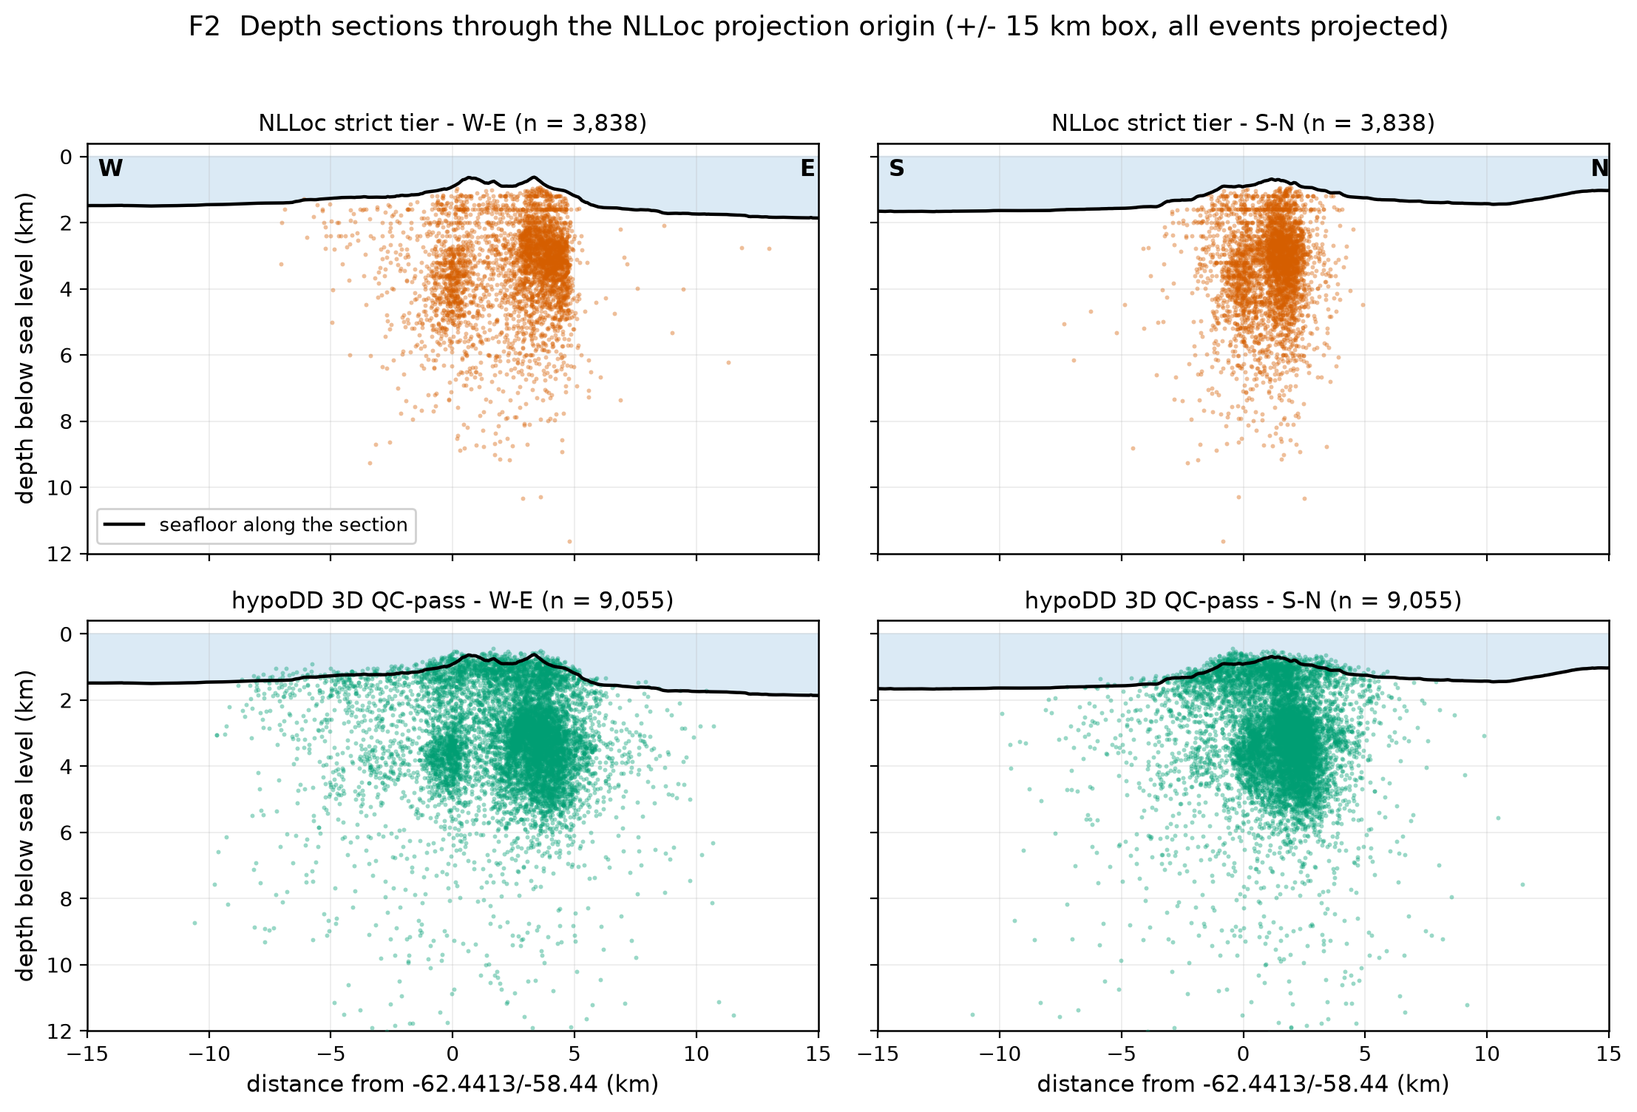
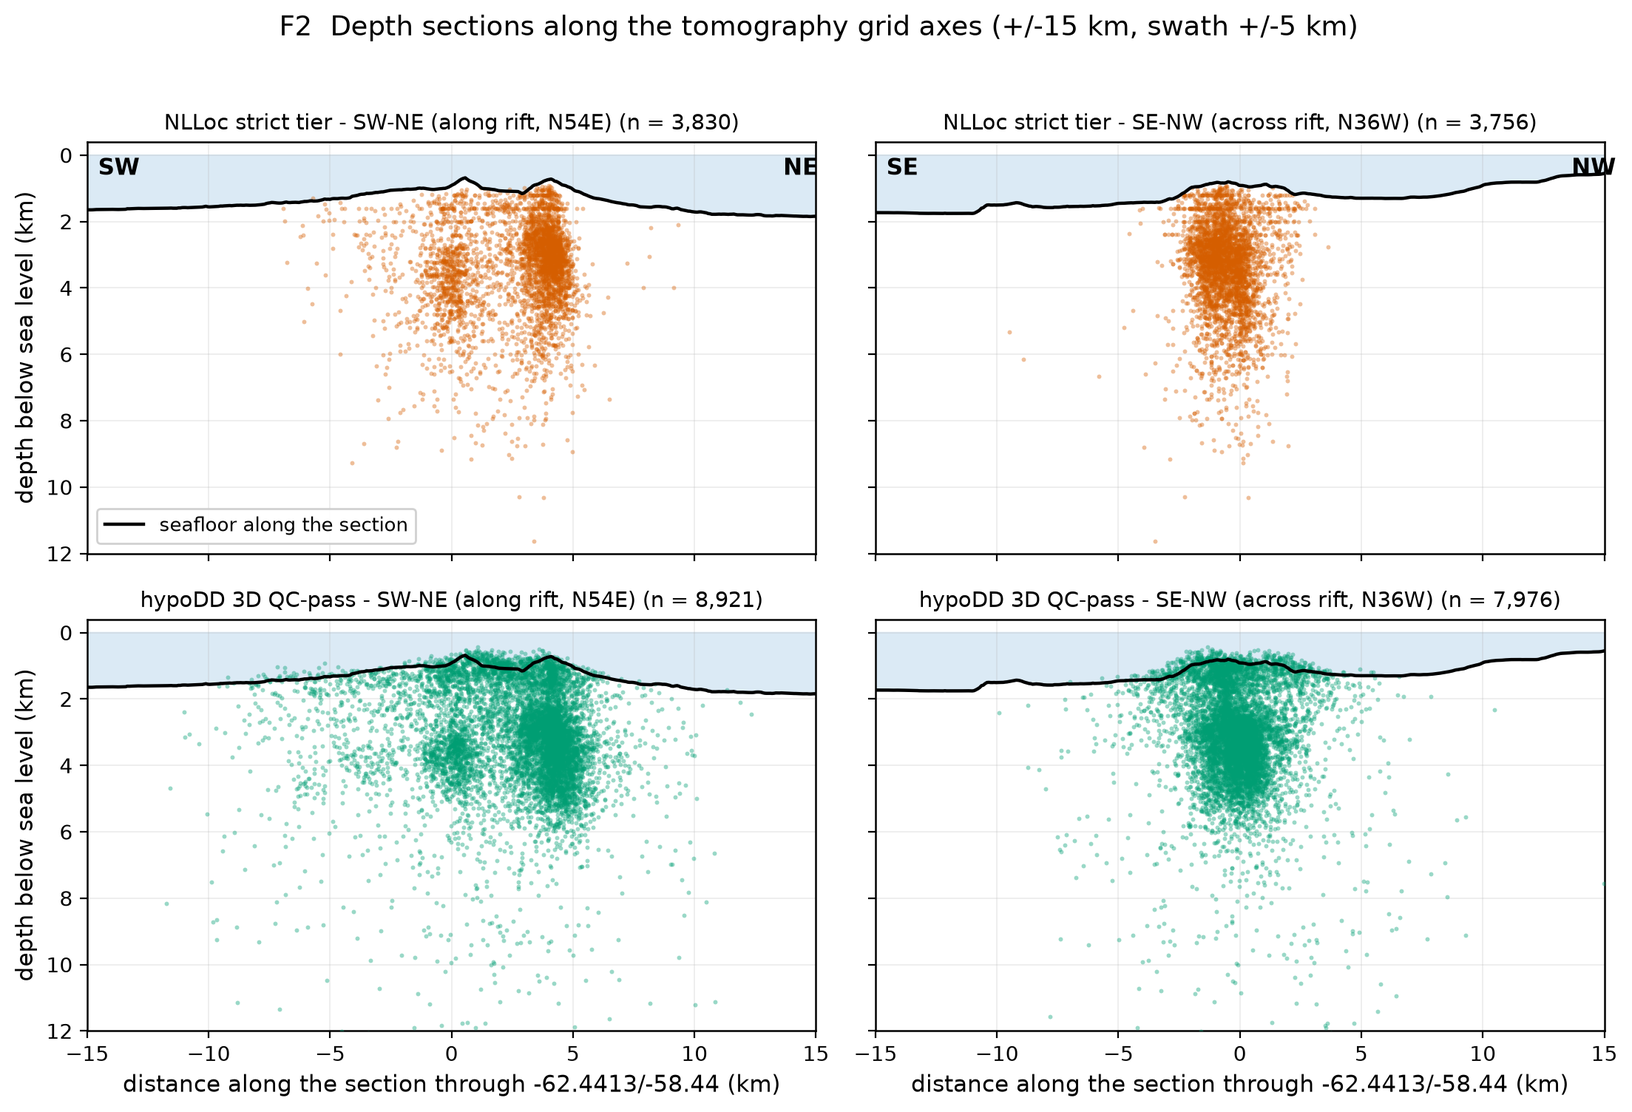
Cross sections re-oriented along the tomography grid axes (SW-NE along rift N54E, SE-NW across N36W) with narrow swaths

diff --git a/scripts/69_final_figures.py b/scripts/69_final_figures.py
@@ -336,76 +336,73 @@ def fig1():
 def fig2():
     strict = load_tier("strict")
     hdd = load_hypodd()
-    HALF = 15.0
+    HALF, SWATH = 15.0, 5.0
+    # Grid axes of the tomography (TRANS SIMPLE, RotCW 36): +x = N54E (along the rift), +y = N36W (across).
+    AZ = {"ne": 54.0, "nw": -36.0}
+    def unit(az): a = np.radians(az); return np.sin(a), np.cos(a)       # (east, north)
+    def rot(e, n, axis):
+        ue, un = unit(AZ[axis]); ve, vn = unit(AZ["nw" if axis == "ne" else "ne"])
+        return e * ue + n * un, e * ve + n * vn                          # along, across
 
     def prof_bathy(axis):
-        """Seafloor along the W-E (axis='we') or S-N (axis='sn') line through the centre."""
-        s = np.linspace(-HALF, HALF, 400)
-        if axis == "we":
-            lat = np.full_like(s, CLAT)
-            lon = CLON + s / kmperdeglon(CLAT)
-        else:
-            lat = CLAT + s / KM_PER_DEG_LAT
-            lon = np.full_like(s, CLON)
+        """Seafloor along the section line through the centre (grid-axis orientation)."""
+        s = np.linspace(-HALF, HALF, 400); ue, un = unit(AZ[axis])
+        lat = CLAT + s * un / KM_PER_DEG_LAT
+        lon = CLON + s * ue / kmperdeglon(CLAT)
         pad = 0.03
         _, _, _, pf = bathymetry(lat.min() - pad, lat.max() + pad,
                                  lon.min() - pad, lon.max() + pad, n=400)
         return s, pf(lat, lon)
 
+    NAME = {"ne": "SW-NE (along rift, N54E)", "nw": "SE-NW (across rift, N36W)"}
     panels = [
-        ("we", strict.lat.values, strict.lon.values, strict.depth_km.values,
-         "NLLoc strict tier", TIER_COLOR["strict"]),
-        ("sn", strict.lat.values, strict.lon.values, strict.depth_km.values,
-         "NLLoc strict tier", TIER_COLOR["strict"]),
-        ("we", hdd.lat.values, hdd.lon.values, hdd.depth_bsl_km.values,
-         "hypoDD 3D QC-pass", TIER_COLOR["hypodd"]),
-        ("sn", hdd.lat.values, hdd.lon.values, hdd.depth_bsl_km.values,
-         "hypoDD 3D QC-pass", TIER_COLOR["hypodd"]),
+        ("ne", strict.lat.values, strict.lon.values, strict.depth_km.values, "NLLoc strict tier", TIER_COLOR["strict"]),
+        ("nw", strict.lat.values, strict.lon.values, strict.depth_km.values, "NLLoc strict tier", TIER_COLOR["strict"]),
+        ("ne", hdd.lat.values, hdd.lon.values, hdd.depth_bsl_km.values, "hypoDD 3D QC-pass", TIER_COLOR["hypodd"]),
+        ("nw", hdd.lat.values, hdd.lon.values, hdd.depth_bsl_km.values, "hypoDD 3D QC-pass", TIER_COLOR["hypodd"]),
     ]
     fig, axes = plt.subplots(2, 2, figsize=(11.2, 7.6), sharex=True, sharey=True)
     counts = {}
     for ax, (axis, lat, lon, dep, lab, col) in zip(axes.ravel(), panels):
         e, n = ll_to_km(lat, lon)
-        inbox = (np.abs(e) <= HALF) & (np.abs(n) <= HALF) & np.isfinite(dep)
-        s = e[inbox] if axis == "we" else n[inbox]
-        ax.scatter(s, dep[inbox], s=4.5, c=col, alpha=0.40, lw=0, zorder=3)
+        along, across = rot(e, n, axis)
+        inbox = (np.abs(along) <= HALF) & (np.abs(across) <= SWATH) & np.isfinite(dep)
+        ax.scatter(along[inbox], dep[inbox], s=4.5, c=col, alpha=0.40, lw=0, zorder=3)
         sb, wb = prof_bathy(axis)
         ax.plot(sb, wb, color=C["black"], lw=1.6, zorder=4)
         ax.fill_between(sb, 0, wb, color="#dbeaf5", zorder=0)
-        ax.set_title(f"{lab} - {'W-E' if axis == 'we' else 'S-N'} "
-                     f"(n = {int(inbox.sum()):,})", fontsize=11)
+        ax.set_title(f"{lab} - {NAME[axis]} (n = {int(inbox.sum()):,})", fontsize=10.5)
         counts[(lab, axis)] = int(inbox.sum())
     for ax in axes.ravel():
         ax.set_xlim(-HALF, HALF)
         ax.set_ylim(12, -0.4)
     for ax in axes[1]:
-        ax.set_xlabel("distance from -62.4413/-58.44 (km)")
+        ax.set_xlabel("distance along the section through -62.4413/-58.44 (km)")
     for ax in axes[:, 0]:
         ax.set_ylabel("depth below sea level (km)")
-    axes[0, 0].annotate("W", (0.015, 0.92), xycoords="axes fraction", fontweight="bold")
-    axes[0, 0].annotate("E", (0.975, 0.92), xycoords="axes fraction", fontweight="bold")
-    axes[0, 1].annotate("S", (0.015, 0.92), xycoords="axes fraction", fontweight="bold")
-    axes[0, 1].annotate("N", (0.975, 0.92), xycoords="axes fraction", fontweight="bold")
+    axes[0, 0].annotate("SW", (0.015, 0.92), xycoords="axes fraction", fontweight="bold")
+    axes[0, 0].annotate("NE", (0.955, 0.92), xycoords="axes fraction", fontweight="bold")
+    axes[0, 1].annotate("SE", (0.015, 0.92), xycoords="axes fraction", fontweight="bold")
+    axes[0, 1].annotate("NW", (0.955, 0.92), xycoords="axes fraction", fontweight="bold")
     axes[0, 0].plot([], [], color=C["black"], lw=1.6, label="seafloor along the section")
     axes[0, 0].legend(loc="lower left", framealpha=0.9)
-    fig.suptitle("F2  Depth sections through the NLLoc projection origin "
-                 "(+/- 15 km box, all events projected)", y=0.985)
+    fig.suptitle(f"F2  Depth sections along the tomography grid axes (+/-{HALF:g} km, swath +/-{SWATH:g} km)", y=0.985)
     fig.tight_layout(rect=(0, 0, 1, 0.965))
 
     CAPTIONS["F2"] = (
-        f"**F2 - depth sections.** Hypocentres inside a +/-15 km box centred on the NLLoc "
-        f"projection origin (-62.4413, -58.44), projected onto a W-E (left) and a S-N "
-        f"(right) vertical plane; every event in the box is shown in both panels. Top row: "
-        f"NLLoc strict tier ({counts[('NLLoc strict tier', 'we')]:,} of "
+        f"**F2 - depth sections.** Hypocentres within +/-15 km along and +/-5 km across two vertical sections "
+        f"through the NLLoc projection origin (-62.4413, -58.44), oriented along the tomography "
+        f"grid axes: SW-NE (N54E, along the Bransfield rift; left) and SE-NW (N36W, across it; right). Top row: "
+        f"NLLoc strict tier ({counts[('NLLoc strict tier', 'ne')]:,} of "
         f"{len(strict):,} events in the box). Bottom row: the hypoDD 3D double-difference "
         f"relocation of the standard tier, QC-pass only "
-        f"({counts[('hypoDD 3D QC-pass', 'we')]:,} of {len(hdd):,}), plotted on its "
+        f"({counts[('hypoDD 3D QC-pass', 'ne')]:,} of {len(hdd):,}), plotted on its "
         f"depth_bsl_km column so both rows share the sea-level datum. The black line is "
         f"the seafloor sampled along the section line from the same bathymetry as F1, and "
         f"the pale band above it is the water column. All four panels share identical "
         f"axes. Events plotted above the black line are not in the water: the profile is "
         f"the seafloor ON the section line, while the points are projected onto it from up "
-        f"to 15 km off-line, where the seafloor is deeper (510 of the {len(hdd):,} hypoDD "
+        f"to 5 km off-line, where the seafloor is deeper (510 of the {len(hdd):,} hypoDD "
         f"events, 5.6%, do sit up to 0.20 km above their own local seafloor, which is the "
         f"half-grid-cell tolerance the QC allows). Seismicity is concentrated in the upper "
         f"~5 km beneath the edifice; the "

diff --git a/scripts/71_report_figures_2.py b/scripts/71_report_figures_2.py
@@ -1268,8 +1268,10 @@ def g14():
         ax.annotate(r.station, (r.longitude, r.latitude), textcoords="offset points",
                     xytext=(6, 5), fontsize=7, zorder=7,
                     bbox=dict(fc="white", ec="none", alpha=0.65, pad=0.6))
-    ax.axhline(CLAT, color="k", lw=1.2, ls="--", zorder=4)
-    ax.axvline(CLON, color="k", lw=1.2, ls=":", zorder=4)
+    # section traces along the tomography grid axes: +x = N54E (along rift), +y = N36W (across)
+    for az, ls in ((54.0, "--"), (-36.0, ":")):
+        ue, un = np.sin(np.radians(az)), np.cos(np.radians(az)); ss = np.array([-HALF, HALF])
+        ax.plot(CLON + ss * ue / kmperdeglon(CLAT), CLAT + ss * un / KM_PER_DEG_LAT, color="k", lw=1.2, ls=ls, zorder=4)
     ax.set_xlim(lon0, lon1)
     ax.set_ylim(lat0, lat1)
     ax.set_aspect(1.0 / np.cos(np.radians(CLAT)))
@@ -1284,42 +1286,41 @@ def g14():
     ax.legend(handles=[
         Line2D([], [], marker="^", ls="", ms=10, color="white", markeredgecolor="k",
                label="ZX OBS"),
-        Line2D([], [], color="k", lw=1.2, ls="--", label="section b-b' (W-E)"),
-        Line2D([], [], color="k", lw=1.2, ls=":", label="section c-c' (S-N)"),
+        Line2D([], [], color="k", lw=1.2, ls="--", label="section b-b' (SW-NE, along rift, N54E)"),
+        Line2D([], [], color="k", lw=1.2, ls=":", label="section c-c' (SE-NW, across rift, N36W)"),
         Line2D([], [], color=C["grey"], lw=0.8, label="bathymetry, 100 m"),
     ], loc="upper left", framealpha=0.93, fontsize=8.5)
 
-    # (b) W-E and (c) S-N sections
-    for pi, tag in enumerate(("b", "c")):
+    # (b) SW-NE (along rift) and (c) SE-NW (across rift) sections, grid-axis orientation
+    SWATH = 3.0
+    def unit(az): a = np.radians(az); return np.sin(a), np.cos(a)
+    for pi, (tag, az, az_x, name, ends) in enumerate((("b", 54.0, -36.0, "SW-NE (along rift, N54E)", ("SW", "NE")),
+                                                       ("c", -36.0, 54.0, "SE-NW (across rift, N36W)", ("SE", "NW")))):
         axs = fig.add_subplot(gs[1, pi])
-        if tag == "b":
-            along, across, name = e, n_, "W-E"
-            prof_lat = np.full(400, CLAT)
-            prof_lon = CLON + np.linspace(-HALF, HALF, 400) / kmperdeglon(CLAT)
-            s_along, s_across = obs.e.values, obs.n.values
-        else:
-            along, across, name = n_, e, "S-N"
-            prof_lat = CLAT + np.linspace(-HALF, HALF, 400) / KM_PER_DEG_LAT
-            prof_lon = np.full(400, CLON)
-            s_along, s_across = obs.n.values, obs.e.values
-        m = np.abs(across) <= HALF
+        ue, un = unit(az); xe, xn = unit(az_x)
+        along, across = e * ue + n_ * un, e * xe + n_ * xn
+        s_along, s_across = obs.e.values * ue + obs.n.values * un, obs.e.values * xe + obs.n.values * xn
+        dline = np.linspace(-HALF, HALF, 400)
+        prof_lat = CLAT + dline * un / KM_PER_DEG_LAT
+        prof_lon = CLON + dline * ue / kmperdeglon(CLAT)
+        m = (np.abs(across) <= SWATH) & (np.abs(along) <= HALF)
         axs.scatter(along[m], z[m], s=3.6, c=t_days[m], cmap=cmap, vmin=vmin, vmax=vmax,
                     lw=0, zorder=3)
         prof = pf(prof_lat, prof_lon)
-        dline = np.linspace(-HALF, HALF, 400)
         axs.fill_between(dline, 0, prof, facecolor="#dceaf6", zorder=1)
         axs.plot(dline, prof, color=C["black"], lw=1.8, zorder=5, label="seafloor")
-        ms = np.abs(s_across) <= HALF
+        ms = (np.abs(s_across) <= SWATH) & (np.abs(s_along) <= HALF)
         axs.scatter(s_along[ms], obs.water_km.values[ms], marker="^", s=95, c="white",
                     edgecolor="k", lw=0.9, zorder=6, clip_on=False,
-                    label=f"ZX OBS ({int(ms.sum())})")
+                    label=f"ZX OBS within the swath ({int(ms.sum())})")
         axs.axvline(0, color=C["grey"], lw=1.0, ls="--", zorder=2)
         axs.set_xlim(-HALF, HALF)
         axs.set_ylim(ZMAX, 0)
-        axs.set_xlabel(f"distance along {name} through {CLAT}/{CLON} (km)")
+        axs.set_xlabel(f"distance along the section through {CLAT}/{CLON} (km)")
         axs.set_ylabel("depth below sea level (km)")
-        axs.set_title(f"({tag})  {name} section, |offset| <= {HALF:g} km "
-                      f"({int(m.sum()):,} events)", loc="left")
+        axs.set_title(f"({tag})  {name}, swath +/-{SWATH:g} km ({int(m.sum()):,} events)", loc="left", fontsize=10)
+        axs.annotate(ends[0], (0.015, 0.92), xycoords="axes fraction", fontweight="bold")
+        axs.annotate(ends[1], (0.94, 0.92), xycoords="axes fraction", fontweight="bold")
         axs.legend(loc="lower right", framealpha=0.93, fontsize=8.5)
 
     from scipy.spatial import cKDTree
@@ -1335,8 +1336,9 @@ def g14():
         f"{int(keep.sum()):,} events within +/-{HALF:g} km of the NLLoc projection origin "
         f"{CLAT}/{CLON} (grey dots: the {int((~keep).sum()):,} outside the frame), over "
         f"the 30 m Orca bathymetry contoured every 100 m, with the ZX OBS and the traces "
-        f"of the two sections. (b) W-E and (c) S-N sections through the same origin, each "
-        f"taking events within +/-{HALF:g} km of the section line, with the seafloor "
+        f"of the two sections, oriented along the tomography grid axes. (b) SW-NE (N54E, along the "
+        f"Bransfield rift) and (c) SE-NW (N36W, across it) sections through the same origin, each "
+        f"taking events within +/-3 km of the section line, with the seafloor "
         f"profile sampled from the same bathymetry and the OBS at their true depths. The "
         f"median nearest-neighbour 3D separation of this catalogue is {nnm:.3f} km, the "
         f"scale at which the lineations and sub-clusters in these panels are resolved. "

diff --git a/notes/figures/final/captions_2.md b/notes/figures/final/captions_2.md
@@ -14,6 +14,6 @@ Generated by `scripts/71_report_figures_2.py` (companion to `scripts/69_final_fi
 
 **Figure 9 - processing accounting.** Waterfall of the full chain, every number counted by `scripts/68_catalogue_accounting.py` from the obs blocks, the per-event `.hyp` files and the catalogue itself, and reproduced in notes/31_final_catalogue_v6.md sec. 3. (a) 98,631 associated events lose 18,848 to the airgun exclusion window (2019-01-21 to 2019-02-05), leaving 79,783 offered to NLLoc; 50 obs events produce no solution and 10 `.hyp` files carry no parsable GEOGRAPHIC line, giving the 79,723 rows of `catalogs/nlloc_year_v6.csv`, of which 220 are REJECTED - so 79,503 LOCATED solutions, 99.6% of the events offered (the last three cuts remove 280 events in total and are too small to render at this scale). (b) The three delivered tiers cut from those solutions: loose 15,184, standard 12,194 and strict 3,864 events (19.1%, 15.3% and 4.9% of LOCATED). The binding constraints are azimuthal gap and grid-face pinning, not pick count or rms. (c) The pick side of the same accounting: of 409,677 S picks, 20,140 (4.9% of all S, 2.5% of all picks) were removed by the S-before-P guard in 13,979 events (17.5%), deleting no events; the 409,090 P picks are untouched.
 
-**Figure 14 - relative geometry.** The cross-correlation-refined relative catalogue `catalogs/hypodd_year_v6_3d_xc_qc.csv` (8,005 QC-pass events) at full resolution, every event coloured by origin time (built from the yr/mo/dy/hr/mi/sc columns) over 398 days from 2019-01-12 to 2020-02-14. (a) Map of the 7,944 events within +/-8 km of the NLLoc projection origin -62.4413/-58.44 (grey dots: the 61 outside the frame), over the 30 m Orca bathymetry contoured every 100 m, with the ZX OBS and the traces of the two sections. (b) W-E and (c) S-N sections through the same origin, each taking events within +/-8 km of the section line, with the seafloor profile sampled from the same bathymetry and the OBS at their true depths. The median nearest-neighbour 3D separation of this catalogue is 0.115 km, the scale at which the lineations and sub-clusters in these panels are resolved. A few events plot above the seafloor line in (b) and (c): quality control removes events above their OWN local seafloor, while the line drawn is the profile along the section, so an event projected in from off-line can sit above it. Depths are below sea level and inherit the absolute frame, so the panels show relative geometry, not absolute depth accuracy.
+**Figure 14 - relative geometry.** The cross-correlation-refined relative catalogue `catalogs/hypodd_year_v6_3d_xc_qc.csv` (8,005 QC-pass events) at full resolution, every event coloured by origin time (built from the yr/mo/dy/hr/mi/sc columns) over 398 days from 2019-01-12 to 2020-02-14. (a) Map of the 7,944 events within +/-8 km of the NLLoc projection origin -62.4413/-58.44 (grey dots: the 61 outside the frame), over the 30 m Orca bathymetry contoured every 100 m, with the ZX OBS and the traces of the two sections, oriented along the tomography grid axes. (b) SW-NE (N54E, along the Bransfield rift) and (c) SE-NW (N36W, across it) sections through the same origin, each taking events within +/-3 km of the section line, with the seafloor profile sampled from the same bathymetry and the OBS at their true depths. The median nearest-neighbour 3D separation of this catalogue is 0.115 km, the scale at which the lineations and sub-clusters in these panels are resolved. A few events plot above the seafloor line in (b) and (c): quality control removes events above their OWN local seafloor, while the line drawn is the profile along the section, so an event projected in from off-line can sit above it. Depths are below sea level and inherit the absolute frame, so the panels show relative geometry, not absolute depth accuracy.
 
 **Figure 15 - validation.** (a) Per-station distribution of the analyst's own S-P measurements (17,315 ZX event/station pairs with both a P and an S hand pick, 15 stations with n >= 20; box p25-p75, median in blue, whiskers p5-p95) against that station's S-P term from `nlloc/delays/v6_it1B.delays` (vermillion diamond, S delay minus P delay), stations ordered by the term; the axis is clipped at 3.6 s, above which a handful of mis-paired analyst measurements run to 119 s. The terms played no part in the analyst picks, so this is an out-of-sample test: only 83 of 17,315 pairs (0.5%) measure an S-P smaller than their own station's term (the count and percentage above each diamond, matching the 83 of 17,347 of notes/31 sec. 1), i.e. the terms never exceed what the analyst actually measured. (b) Automatic minus analyst S-P on the 13,114 pairs where the production pool matched both phases (`res_raw` of `catalogs/manual_pick_recall_year_newpool.csv`, S residual minus P residual), median +20 ms with a MAD of 50 ms; the inset gives the per-station median. (c) Recall of the analyst picks per station in the trusted window (from 2019-10-01, 11,308 picks), for the raw pick pool (solid, 90.9% overall) and for the picks that survive into the associated catalogue (hatched, 59.6%) - the gap is what association and the S-before-P guard remove, not what the picker missed.

diff --git a/notes/figures/final/captions.md b/notes/figures/final/captions.md
@@ -4,7 +4,7 @@ Generated by `scripts/69_final_figures.py`. Numbers are recomputed from the cata
 
 **F1 - epicentre map.** Epicentres of the NLLoc catalogue over the Orca volcanic edifice. Grey dots: standard tier (gap < 180 deg, rms < 0.5 s, Nphs >= 6, depth_bsf > -0.2 km; 12,194 events, 11,834 inside the map frame). Coloured dots: strict tier (3,864 events, 3,838 in frame), shaded by hypocentral depth below sea level (0-10 km). Triangles are stations - filled vermillion for ZX ocean-bottom seismometers (true water depths 0.785-1.943 km), open for land stations. Thin grey lines are bathymetry contours every 250 m, from the 30 m Orca multibeam grid inside its footprint and GEBCO_2023 outside it (the same surface and precedence used to un-shear the velocity grid, scripts/41). The star marks the Orca caldera (the 30 m grid's summit is -615 m at -62.446/-58.397). Scale bar 5 km; the inset shows the full station network with the map frame outlined. Seismicity concentrates in and immediately around the caldera, where the array aperture is smallest and the azimuthal gap is therefore lowest - the binding QC constraint (notes/31 sec.3).
 
-**F2 - depth sections.** Hypocentres inside a +/-15 km box centred on the NLLoc projection origin (-62.4413, -58.44), projected onto a W-E (left) and a S-N (right) vertical plane; every event in the box is shown in both panels. Top row: NLLoc strict tier (3,838 of 3,864 events in the box). Bottom row: the hypoDD 3D double-difference relocation of the standard tier, QC-pass only (9,055 of 9,125), plotted on its depth_bsl_km column so both rows share the sea-level datum. The black line is the seafloor sampled along the section line from the same bathymetry as F1, and the pale band above it is the water column. All four panels share identical axes. Events plotted above the black line are not in the water: the profile is the seafloor ON the section line, while the points are projected onto it from up to 15 km off-line, where the seafloor is deeper (510 of the 9,125 hypoDD events, 5.6%, do sit up to 0.20 km above their own local seafloor, which is the half-grid-cell tolerance the QC allows). Seismicity is concentrated in the upper ~5 km beneath the edifice; the hypoDD panels are tighter laterally but move the 6-9 km population up by about 2 km (README sec.5 caveat 7), so absolute depth should be read from the NLLoc panels and relative geometry from the hypoDD panels.
+**F2 - depth sections.** Hypocentres within +/-15 km along and +/-5 km across two vertical sections through the NLLoc projection origin (-62.4413, -58.44), oriented along the tomography grid axes: SW-NE (N54E, along the Bransfield rift; left) and SE-NW (N36W, across it; right). Top row: NLLoc strict tier (3,830 of 3,864 events in the box). Bottom row: the hypoDD 3D double-difference relocation of the standard tier, QC-pass only (8,921 of 9,125), plotted on its depth_bsl_km column so both rows share the sea-level datum. The black line is the seafloor sampled along the section line from the same bathymetry as F1, and the pale band above it is the water column. All four panels share identical axes. Events plotted above the black line are not in the water: the profile is the seafloor ON the section line, while the points are projected onto it from up to 5 km off-line, where the seafloor is deeper (510 of the 9,125 hypoDD events, 5.6%, do sit up to 0.20 km above their own local seafloor, which is the half-grid-cell tolerance the QC allows). Seismicity is concentrated in the upper ~5 km beneath the edifice; the hypoDD panels are tighter laterally but move the 6-9 km population up by about 2 km (README sec.5 caveat 7), so absolute depth should be read from the NLLoc panels and relative geometry from the hypoDD panels.
 
 **F3 - depth distributions.** Histograms of depth below the LOCAL seafloor (depth_bsf_km for NLLoc, depth_bsf_local_km for hypoDD), 0.25 km bins over 0-12 km, one panel per catalogue. Dotted / solid / dashed vertical lines are the p10 / p50 / p90 of the full column (a handful of events fall outside the 0-12 km plotting range and are excluded from the bars but not from the percentiles). NLLoc loose tier p10/p50/p90 = -0.01/1.64/4.90 km (n = 15,184); NLLoc standard tier p10/p50/p90 = 0.02/1.81/4.78 km (n = 12,194); NLLoc strict tier p10/p50/p90 = 0.75/2.29/4.30 km (n = 3,864); hypoDD 3D QC-pass p10/p50/p90 = 0.15/2.15/3.89 km (n = 9,059). Tightening the QC deepens the median (the strict tier additionally requires depth_bsf > +0.2 km, which removes the seafloor-hugging population) and narrows the distribution, as expected if the shallow excess is location noise rather than structure. Note the README caveat that the P tomography is honestly resolved only to about 4 km below the seafloor: 14.8% of the standard tier and 12.7% of the strict tier sit deeper than that.
 
